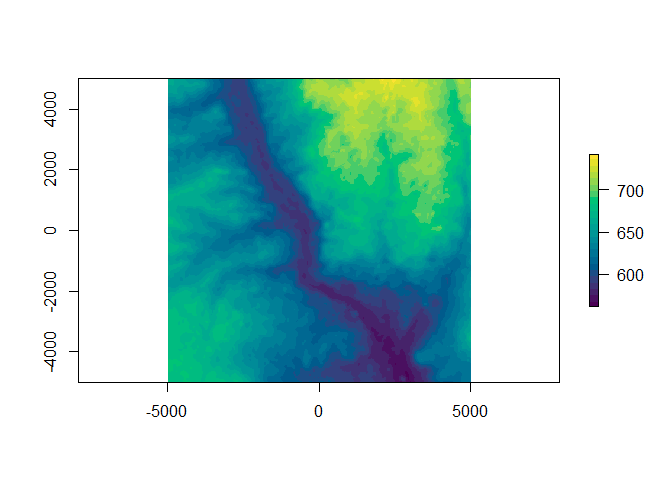
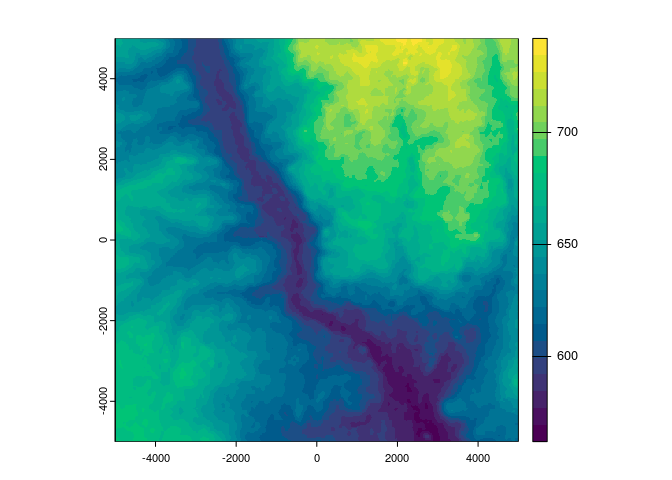
readme

diff --git a/README.md b/README.md
@@ -1,4 +1,3 @@
-<<<<<<< HEAD
 
 <!-- README.md is generated from README.Rmd. Please edit that file -->
 
@@ -65,8 +64,7 @@ provide binaries.
 install.packages("vapour")
 ```
 
-The development version can be installed from Github, easiest is via the
-[hypertidy universe](https://hypertidy.r-universe.dev/ui#builds):
+The development version can be installed from Github.
 
 ``` r
 options(repos = c(
@@ -163,6 +161,8 @@ dm <- c(256, 256)
 
 
 vals <- vapour::vapour_warp_raster(elevation.tiles.prod, extent = ex, dimension = dm, projection = crs)
+#> scale: 1.000000
+#> offset: 0.000000
 ## now we can use this in a matrix
 image(m <- matrix(vals[[1]], nrow = dm[2], ncol = dm[1])[,dm[2]:1 ])
 ```
@@ -175,9 +175,9 @@ x <- list(x = seq(ex[1], ex[2], length.out = dm[1] + 1), y = seq(ex[3] ,ex[4], l
 image(x)
 
 ## or as a spatial object
-library(raster)
-#> Loading required package: sp
-r <- setValues(raster(extent(ex), nrows = dm[2], ncols = dm[1], crs = crs), vals[[1]])
+library(terra)
+#> terra 1.7.18
+r <- rast(ext(ex), nrows = dm[2], ncols = dm[1], crs = crs, vals = vals[[1]])
 contour(r, add = TRUE)
 ```
 
@@ -188,15 +188,18 @@ If we want more detail, go ahead:
 ``` r
 dm <- c(512, 512)
 vals <- vapour::vapour_warp_raster(elevation.tiles.prod, extent = ex, dimension = dm, projection = crs)
-(r <- setValues(raster(extent(ex), nrows = dm[2], ncols = dm[1], crs = crs), vals[[1]]))
-#> class      : RasterLayer 
-#> dimensions : 512, 512, 262144  (nrow, ncol, ncell)
-#> resolution : 19.53125, 19.53125  (x, y)
-#> extent     : -5000, 5000, -5000, 5000  (xmin, xmax, ymin, ymax)
-#> crs        : +proj=laea +lat_0=40.416667 +lon_0=-3.716667 +x_0=0 +y_0=0 +datum=WGS84 +units=m +no_defs 
-#> source     : memory
-#> names      : layer 
-#> values     : 562, 742  (min, max)
+#> scale: 1.000000
+#> offset: 0.000000
+(r <- rast(ext(ex), nrows = dm[2], ncols = dm[1], crs = crs, vals = vals[[1]]))
+#> class       : SpatRaster 
+#> dimensions  : 512, 512, 1  (nrow, ncol, nlyr)
+#> resolution  : 19.53125, 19.53125  (x, y)
+#> extent      : -5000, 5000, -5000, 5000  (xmin, xmax, ymin, ymax)
+#> coord. ref. : +proj=laea +lat_0=40.416667 +lon_0=-3.716667 +x_0=0 +y_0=0 +datum=WGS84 +units=m +no_defs 
+#> source(s)   : memory
+#> name        : lyr.1 
+#> min value   :   562 
+#> max value   :   742
 plot(r, col = hcl.colors(24))
 ```
 
@@ -244,270 +247,3 @@ We’ve kept a record of a minimal GDAL wrapper package here:
 Please note that this project is released with a [Contributor Code of
 Conduct](https://github.com/hypertidy/vapour/blob/master/CONDUCT.md). By
 participating in this project you agree to abide by its terms.
-=======
-
-<!-- README.md is generated from README.Rmd. Please edit that file -->
-
-# vapour <img src="man/figures/logo.png" align="right" height="228" />
-
-<!-- badges: start -->
-[![R_build_status](https://github.com/hypertidy/vapour/workflows/R-CMD-check/badge.svg)](https://github.com/hypertidy/vapour/actions)
-[![CRAN_Status_Badge](http://www.r-pkg.org/badges/version/vapour)](https://cran.r-project.org/package=vapour)
-[![CRAN_Download_Badge](http://cranlogs.r-pkg.org/badges/vapour)](https://cran.r-project.org/package=vapour)
-<!-- badges: end -->
-
-## Overview
-
-The vapour package provides access to the basic *read* functions
-available in [GDAL](https://gdal.org/) for both
-[raster](https://gdal.org/user/raster_data_model.html) and
-[vector](https://gdal.org/user/vector_data_model.html) data sources.
-
-The functions are deliberately *lower-level* than these data models and
-provide access to the component entities independently.
-
-For vector data:
-
-- read access to feature attributes.
-- read access to raw binary geometry.
-- read access to geometry in text forms (GeoJSON, WKT, GML, KML).
-- read access to the extent, or bounding box, of feature geometries.
-- helper functions to summarize feature identity and geometry status
-
-All vector/feature read tasks can optionally apply an arbitrary limit to
-the maximum number of features read or queried, and all allow execution
-of [OGRSQL](https://gdal.org/user/ogr_sql_dialect.html) to a layer prior
-to data extraction. In combination with a SQL query a [bounding box
-spatial filter](https://gdal.org/user/ogr_sql_dialect.html#executesql)
-can be applied via the `extent` argument.
-
-For raster data:
-
-- read access to the list of available rasters within a collection
-  source (subdatasets).
-- read access to *structural metadata* for individual raster sources.
-- read access for raw data using GDAL’s [RasterIO
-  framework](https://gdal.org/tutorials/raster_api_tut.html) and its
-  dynamic image decimation / replication resampling algorithms.
-- read access for raw data using GDAL’s [Warper
-  framework](https://gdal.org/api/gdalwarp_cpp.html) and its dynamic
-  image warping, a superset of the RasterIO capabilities.
-
-The `vapour_warp_raster()` function is a new feature in vapour, and
-reflects many learnings about how the warper works and what is needed
-for use. We simplify the approach taken in `vapour_read_raster()` by
-allowing specifying an *extent* and *dimensions* as a minimum, and this
-works for data sources that contain *overviews* (or pyramid
-levels-of-detail) as it automatically chooses an appropriate level for
-the request made. This works for files, urls, database connections,
-online tiled image servers, and all the various ways of specifying GDAL
-data sources.
-
-The workflows available are intended to support development of
-applications in R for these vector and [raster
-data](https://en.wikipedia.org/wiki/Raster_data) without being
-constrained to any particular data model.
-
-## Installation
-
-The package \~cannot be installed from CRAN\~.
-
-The development version can be installed from Github.
-
-``` r
-options(repos = c(
-    hypertidy = 'https://hypertidy.r-universe.dev',
-    CRAN = 'https://cloud.r-project.org'))
-install.packages("vapour")
-```
-
-To install the development version the more github-traditional way:
-
-``` r
-remotes::install_github("hypertidy/vapour")
-```
-
-You will need development tools for building R packages.
-
-On Linux and MacOS building also requires an available GDAL
-installation, but on Windows the ROpenSci rwinlib tools are used and the
-required GDAL will be downloaded and used when building the package. The
-hypertidy universe way also has access to binaries. On windows this
-installation is self-contained and only affects the use of R, it can be
-used alongside other applications using GDAL.
-
-For MacOS the package build is controlled by an internal CRAN process
-including configure arguments for the gdal and proj data directories.
-
-## Purpose
-
-The goal of vapour is to provide a basic **GDAL API** package for R. The
-key functions provide vector geometry or attributes and raster data and
-raster metadata.
-
-The priority is to give low-level access to key functionality rather
-than comprehensive coverage of the library. The real advantage of
-`vapour` is the flexibility of a modular workflow, not the outright
-efficiency.
-
-A parallel goal is to be freed from the powerful but sometimes limiting
-high-level data models of GDAL itself, specifically these are *simple
-features* and *affine-based regular rasters composed of 2D slices*.
-(GDAL will possibly remove these limitations over time but still there
-will always be value in having modularity in an ecosystem of tools.)
-
-GDAL’s dynamic resampling of arbitrary raster windows is also very
-useful for interactive tools on local data, and is radically
-under-utilized. A quick example, topography data is available from
-Amazon compute servers, first we need a config for the source:
-
-``` r
-elevation.tiles.prod <- 
- '<GDAL_WMS>
-  <Service name="TMS">
-    <ServerUrl>https://s3.amazonaws.com/elevation-tiles-prod/geotiff/${z}/${x}/${y}.tif</ServerUrl>
-  </Service>
-  <DataWindow>
-    <UpperLeftX>-20037508.34</UpperLeftX>
-    <UpperLeftY>20037508.34</UpperLeftY>
-    <LowerRightX>20037508.34</LowerRightX>
-    <LowerRightY>-20037508.34</LowerRightY>
-    <TileLevel>14</TileLevel>
-    <TileCountX>1</TileCountX>
-    <TileCountY>1</TileCountY>
-    <YOrigin>top</YOrigin>
-  </DataWindow>
-  <Projection>EPSG:3857</Projection>
-  <BlockSizeX>512</BlockSizeX>
-  <BlockSizeY>512</BlockSizeY>
-  <BandsCount>1</BandsCount>
-  <DataType>Int16</DataType>
-  <ZeroBlockHttpCodes>403,404</ZeroBlockHttpCodes>
-  <DataValues>
-    <NoData>-32768</NoData>
-  </DataValues>
-  <Cache/>
-</GDAL_WMS>'
-```
-
-``` r
-## we want an extent
-ex <- c(-1, 1, -1, 1) * 5000  ## 10km wide/high region
-## Madrid is at this location
-pt <- cbind(-3.716667, 40.416667)
-crs <- sprintf("+proj=laea +lon_0=%f +lat_0=%f +datum=WGS84", pt[1,1,drop = TRUE], pt[1,2, drop = TRUE])
-dm <- c(256, 256)
-
-
-vals <- vapour::vapour_warp_raster(elevation.tiles.prod, extent = ex, dimension = dm, projection = crs)
-## now we can use this in a matrix
-image(m <- matrix(vals[[1]], nrow = dm[2], ncol = dm[1])[,dm[2]:1 ])
-```
-
-<img src="man/figures/README-topo-example-1.png" width="100%" />
-
-``` r
-## using the image list format
-x <- list(x = seq(ex[1], ex[2], length.out = dm[1] + 1), y = seq(ex[3] ,ex[4], length.out = dm[1] + 1), z = m)
-image(x)
-
-## or as a spatial object
-library(raster)
-#> Loading required package: sp
-r <- setValues(raster(extent(ex), nrows = dm[2], ncols = dm[1], crs = crs), vals[[1]])
-contour(r, add = TRUE)
-```
-
-<img src="man/figures/README-topo-example-2.png" width="100%" />
-
-If we want more detail, go ahead:
-
-``` r
-dm <- c(512, 512)
-vals <- vapour::vapour_warp_raster(elevation.tiles.prod, extent = ex, dimension = dm, projection = crs)
-(r <- setValues(raster(extent(ex), nrows = dm[2], ncols = dm[1], crs = crs), vals[[1]]))
-#> class      : RasterLayer 
-#> dimensions : 512, 512, 262144  (nrow, ncol, ncell)
-#> resolution : 19.53125, 19.53125  (x, y)
-#> extent     : -5000, 5000, -5000, 5000  (xmin, xmax, ymin, ymax)
-#> crs        : +proj=laea +lon_0=-3.716667 +lat_0=40.416667 +datum=WGS84 
-#> source     : memory
-#> names      : layer 
-#> values     : 562, 742  (min, max)
-plot(r, col = hcl.colors(24))
-```
-
-<img src="man/figures/README-lod-1.png" width="100%" />
-
-GDAL is obstinately *format agnostic*, the A stands for *Abstraction*
-and we like that in R too, just gives us the data. Here we created a
-base matrix image object, and a raster package *RasterLayer*, but we
-could use the spatstat im, or objects in stars or terra packages, it
-makes no difference to the read-through-warp process.
-
-This partly draws on work done in [the sf
-package](https://github.com/r-spatial/sf) and [the terra
-package](https://github.com/rspatial/terra) and in packages `rgdal` and
-`rgdal2`. I’m amazed that something as powerful and general as GDAL is
-still only available through these lenses, but maybe more folks will get
-interested over time.
-
-## Warnings
-
-It’s possible to give problematic “SELECT” statements via the `sql`
-argument. Note that the geometry readers `vapour_read_geometry`,
-`vapour_read_geometry_text`, and `vapour_read_extent` will strip out the
-`SELECT ... FROM` clause and replace it with `SELECT * FROM` to ensure
-that the geometry is accessible, though the attributes are ignored. This
-means we can allow the user or `dplyr` to create any `SELECT` statement.
-The function `vapour_read_geometry` will return a list of NULLs, in this
-case.
-
-## Examples
-
-The package documentation page gives an overview of available functions.
-
-``` r
-help("vapour-package")
-```
-
-See the vignettes and documentation for examples WIP.
-
-## Context
-
-Examples of packages that use vapour are in development,
-[RGDALSQL](https://github.com/mdsumner/RGDALSQL) and
-[lazyraster](https://github.com/hypertidy/lazyraster). `RGDALSQL` aims
-to leverage the facilities of GDAL to provide data *on-demand* for many
-sources *as if* they were databases. `lazyraster` uses the
-level-of-detail facility of GDAL to read just enough resolution from a
-raster source using traditional window techniques.
-
-Limitations, work-in-progress and other discussion are active here:
-<https://github.com/hypertidy/vapour/issues/4>
-
-We’ve kept a record of a minimal GDAL wrapper package here:
-
-<https://github.com/diminutive/gdalmin>
-
-Before those I had worked on getting sp and dplyr to at least work
-together <https://github.com/dis-organization/sp_dplyrexpt> and recently
-rgdal was updated to allow tibbles to be used, something that spbabel
-and spdplyr really needed to avoid friction.
-
-Early exploration of allow non-geometry read with rgdal was tried here:
-<https://github.com/hypertidy/gladr>
-
-Thanks to Edzer Pebesma and Roger Bivand and Tim Keitt for prior art
-that I crib and copy from. Jeroen Ooms helped the R community hugely by
-providing an accessible build process for libraries on Windows. Mark
-Padgham helped kick me over a huge obstacle in using C++ libraries with
-R. Simon Wotherspoon and Ben Raymond have endured ravings about wanting
-this level of control for many years.
-
-# Code of conduct
-
-Please note that this project is released with a [Contributor Code of
-Conduct](https://github.com/hypertidy/vapour/blob/master/CONDUCT.md). By
-participating in this project you agree to abide by its terms.
->>>>>>> cran-patch-rtools43
